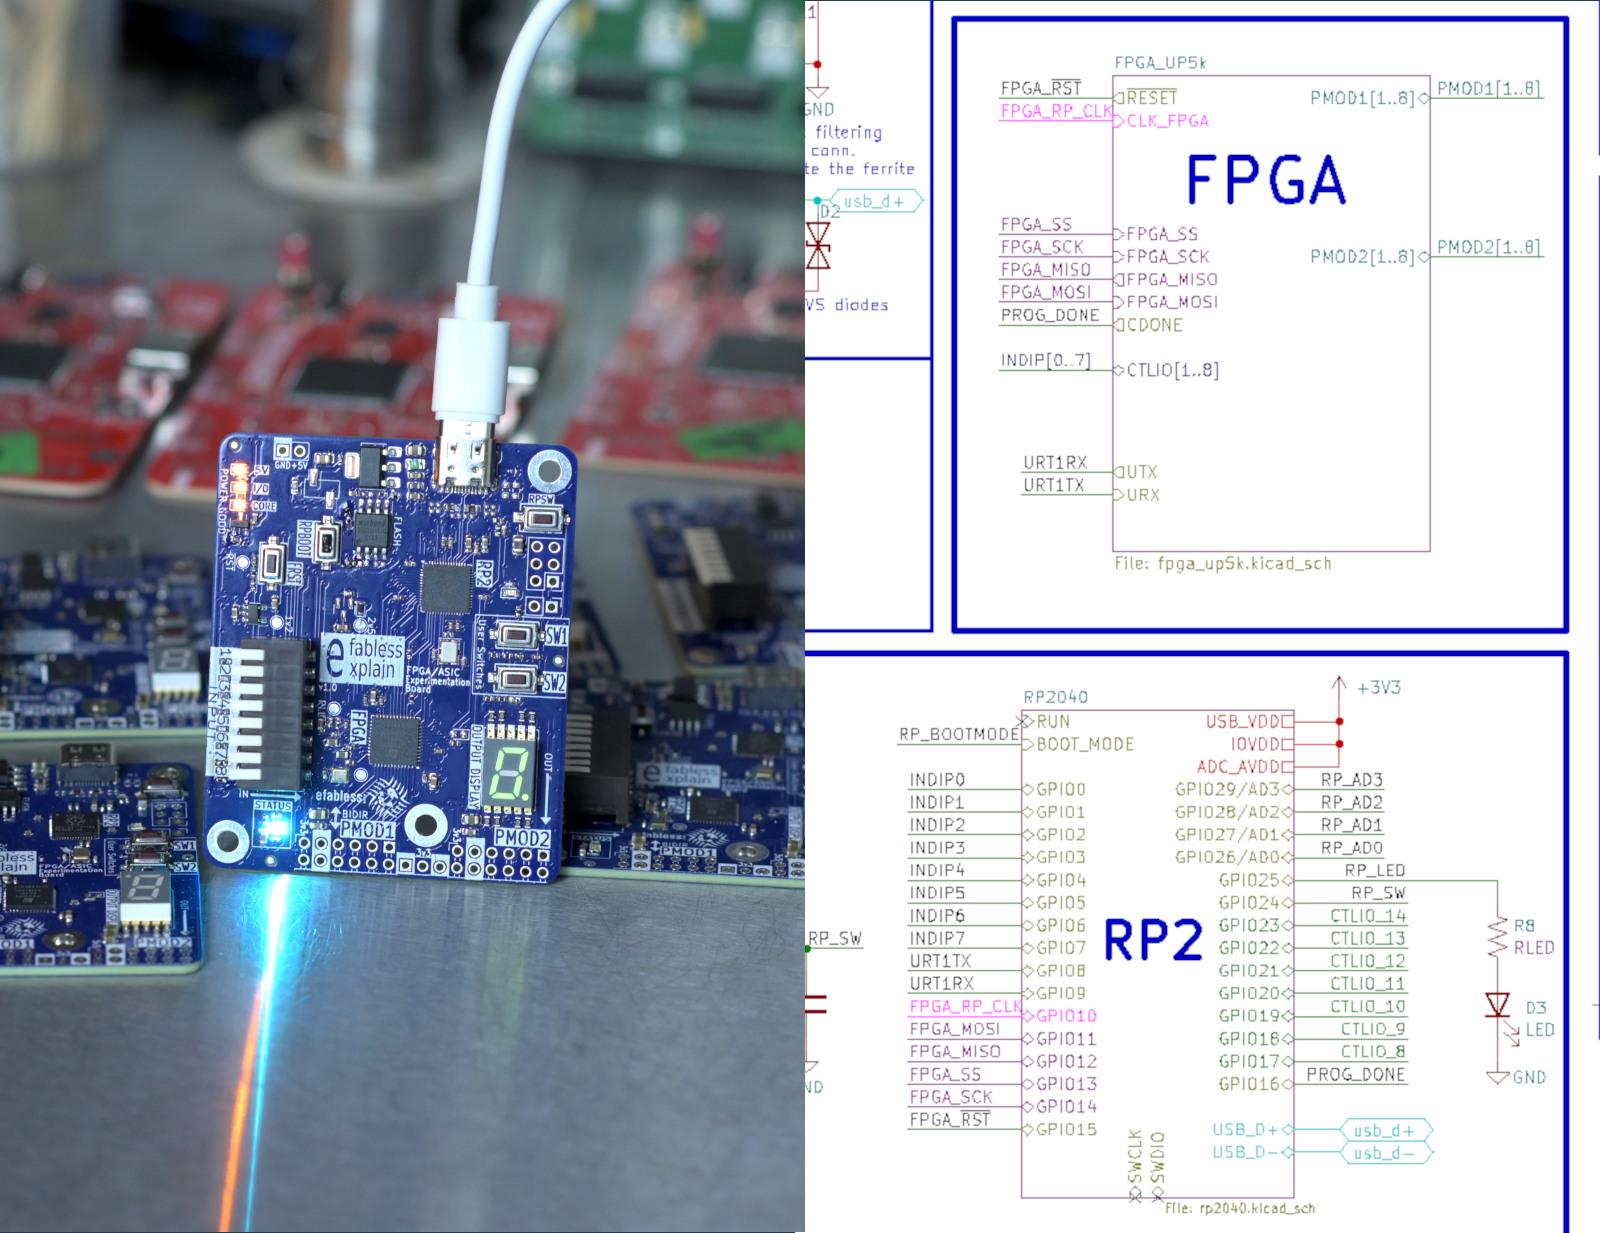
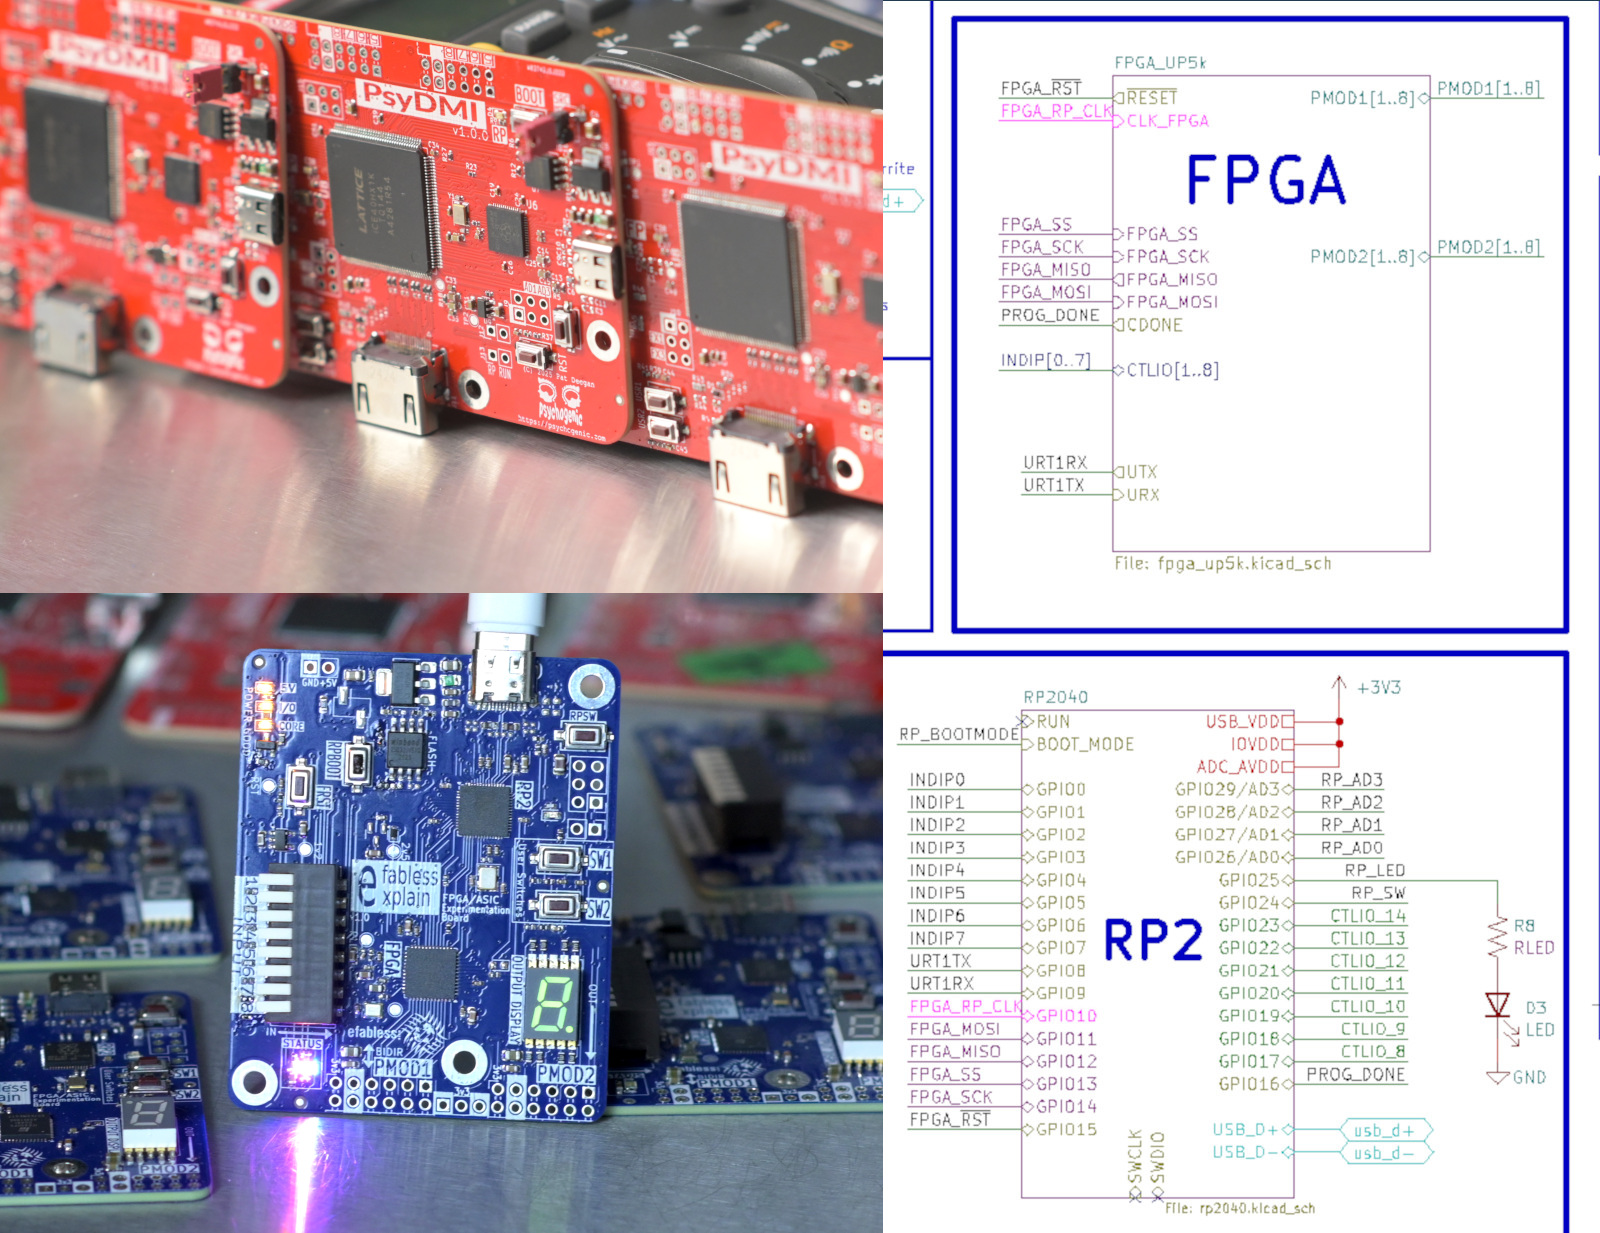
doc image updates

diff --git a/README.md b/README.md
@@ -82,7 +82,7 @@ In your own projects, you can either wire up a bare RP2 chip or drop in a [Raspb
 
 The basic function doesn't require all that much wiring.  Even with all the "options" you basically just need 9 pins.
 
-Here's the relevant section of one of my boards that uses this system with a bare RP2040 chip:
+Here are the two boards from which I grabbed the terminal screenshots, along with the relevant section of a schematic that uses this system with a bare RP2040 chip:
 
 ![riffpga hook-up](./images/riffpga_basichookup.jpg)
 
